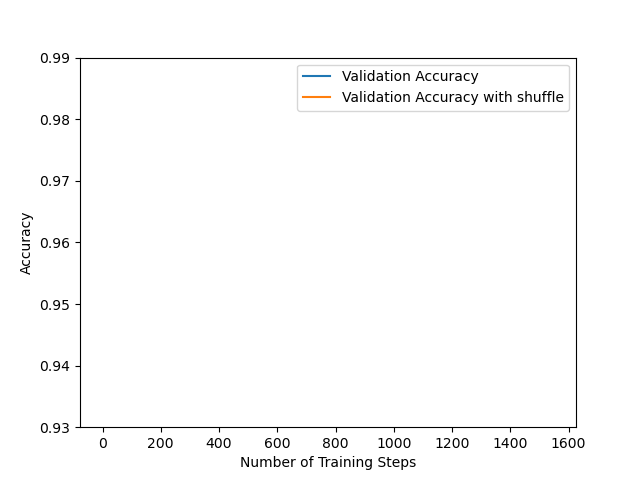
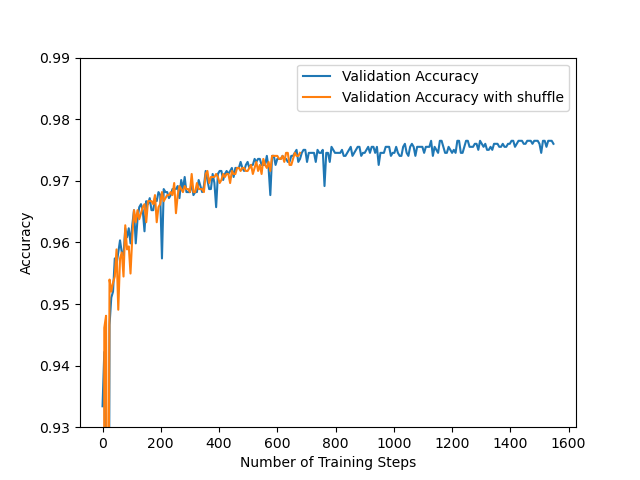
oppg2 done

Changed region(s): [[0.1562, 0.2812, 0.875, 0.9062]]

diff --git a/assignment1/trainer.py b/assignment1/trainer.py
@@ -75,8 +75,12 @@ class BaseTrainer:
 
 
         global_step = 0
+        stop_signal = 0
+
         for epoch in tqdm(range(num_epochs)):
-            #print("epoch:",epoch,"/",num_epochs)
+            if stop_signal>=10:
+                print(epoch)
+                break
             train_loader = utils.batch_loader(
                 self.X_train, self.Y_train, self.batch_size, shuffle=self.shuffle_dataset)
             for X_batch, Y_batch in iter(train_loader):
@@ -86,6 +90,7 @@ class BaseTrainer:
 
                 # Track validation loss / accuracy every time we progress 20% through the dataset
                 if global_step % num_steps_per_val == 0:
+                    
                     val_loss, accuracy_train, accuracy_val = self.validation_step()
                     train_history["accuracy"][global_step] = accuracy_train
                     val_history["loss"][global_step] = val_loss
@@ -93,5 +98,12 @@ class BaseTrainer:
 
                     # TODO (Task 2d): Implement early stopping here.
                     # You can access the validation loss in val_history["loss"]
+                    if global_step>1 and val_loss<=train_history["loss"][global_step-1]:
+                        stop_signal +=1
+                    
+                     
+                    else:
+                        stop_signal = 0
+                    
                 global_step += 1
         return train_history, val_history

diff --git a/assignment1/utils.py b/assignment1/utils.py
@@ -2,6 +2,7 @@ from typing import Generator
 import mnist
 import numpy as np
 import matplotlib.pyplot as plt
+import random 
 
 
 def batch_loader(
@@ -23,9 +24,15 @@ def batch_loader(
     num_batches = len(X) // batch_size
     if not drop_last:
         num_batches = int(np.ceil(len(X) / batch_size))
-    indices = list(range(len(X)))
+    
 
     # TODO (task 2e) implement dataset shuffling here.
+    
+    indices = list(range(len(X)))
+    if shuffle:
+        random.shuffle(indices)
+        
+
 
     for i in range(num_batches):
         # select a set of indices for each batch of samples
